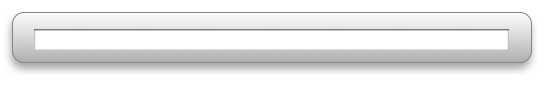
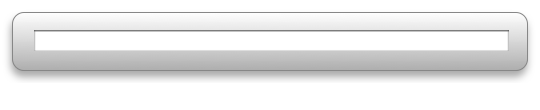
Add textbox for working directory.
It doesn't function yet, but this is useful. Need to figure out best way to
have this textbox display the current directory.

diff --git a/wsh.dcproj/project/widget.wdgt/main.html b/wsh.dcproj/project/widget.wdgt/main.html
@@ -16,6 +16,7 @@
         <div class="apple-no-children" id="info" apple-part="com.apple.Dashcode.part.infobutton" apple-default-image-visibility="hidden"></div>
         <div apple-part="com.apple.Dashcode.part.text" class="apple-text apple-no-children" id="helloText" apple-group="text" apple-default-image-visibility="hidden" apple-style="part-height-dependent: true;"></div>
         <input id="textField" type="text" name="" value="" class="apple-textfield apple-no-children" apple-part="com.apple.Dashcode.part.textfield" onkeypress="myKeypressHandler(event)">
+        <div id="workingDirectoryText" apple-part="com.apple.Dashcode.part.text" class="apple-text apple-no-children" apple-default-image-visibility="hidden" apple-text-overflow="ellipsis" apple-style="part-height-dependent: true;"></div>
     </div>
     <div id="back">
         <img id="backImg" src="Parts/Images/back.png" alt="" apple-locked="true" apple-part="com.apple.Dashcode.part.backimage" apple-style=" image-radius: 12,12,12,12; image-border: 1; image-border-color: 0.1500,0.1500,0.1500; image-border-width: 3; shadow-include-shadow: 1; shadow-blur: 9.00; shadow-offset: -1.00,-6.00; shadow-color: 0.0000,0.0000,0.0000,0.3333;">

diff --git a/wsh.dcproj/project/widget.wdgt/Parts/setup.js b/wsh.dcproj/project/widget.wdgt/Parts/setup.js
@@ -7,6 +7,7 @@
 var dashcodePartSpecs = {
     "done": { "creationFunction": "CreateGlassButton", "onclick": "showFront", "text": "Done" },
     "helloText": { "text": "Wsh", "view": "DC.Text" },
-    "info": { "backgroundStyle": "black", "creationFunction": "CreateInfoButton", "foregroundStyle": "white", "frontID": "front", "onclick": "showBack" }
+    "info": { "backgroundStyle": "black", "creationFunction": "CreateInfoButton", "foregroundStyle": "white", "frontID": "front", "onclick": "showBack" },
+    "workingDirectoryText": { "text": "WorkingDirectoryHere", "view": "DC.Text" }
 };
 

diff --git a/wsh.dcproj/project/widget.wdgt/main.css b/wsh.dcproj/project/widget.wdgt/main.css
@@ -78,7 +78,25 @@ body {
     color: black;
     font-family: HelveticaNeue;
     font-size: 10pt;
-    top: 27px;
     left: 34px;
     width: 469px;
+    top: 28px;
+}
+
+#workingDirectoryText {
+    font-size: 13px;
+    font-family: 'Lucida Grande', Arial, sans-serif;
+    text-overflow: ellipsis;
+    overflow: hidden;
+    position: absolute;
+    margin-top: 0px;
+    left: 34px;
+    top: 54px;
+    right: 30px;
+    width: auto;
+    height: auto;
+}
+
+.selected #workingDirectoryText {
+    color: white;
 }
